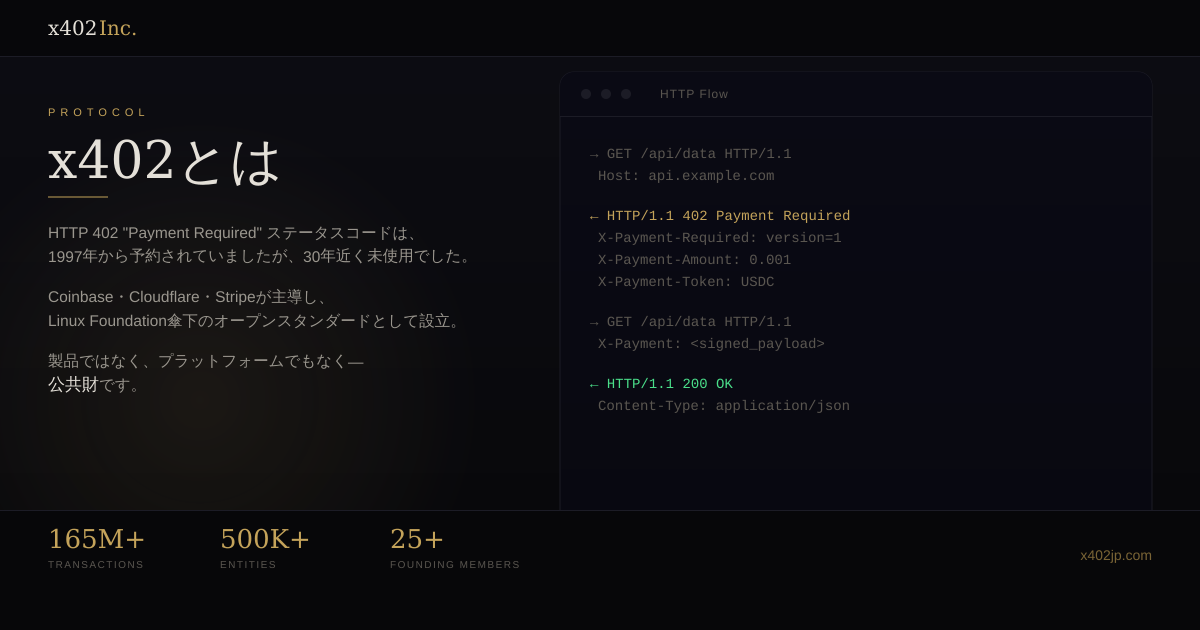
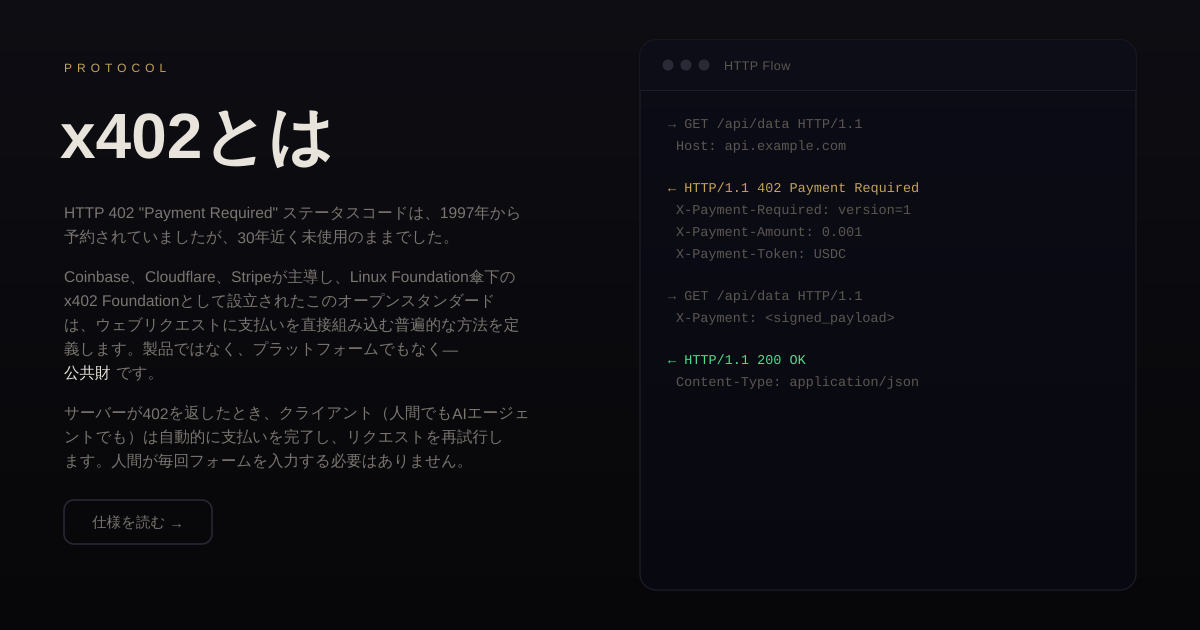
Update OGP PNG to match Protocol section screenshot, mobile 12px font
- scripts/generate-og.mjs: redesigned SVG matching x402とは screenshot
  (large bold title, body text left, HTTP Flow code block right)
- hero.ts: mobile uses MOBILE_FONT (12px/21px) prepared separately,
  single column with 16px margins — pretext still animates on mobile
- public/og-image.png: regenerated (85KB)

https://claude.ai/code/session_01McE1ci2mmXWg65ww2vFHRF

diff --git a/src/hero.ts b/src/hero.ts
@@ -17,6 +17,10 @@ import {
 const FONT_SIZE = 15
 const LINE_HEIGHT = Math.round(FONT_SIZE * 1.78) // ≈ 27px
 const FONT = `${FONT_SIZE}px/${LINE_HEIGHT}px "Noto Sans JP", sans-serif`
+
+const MOBILE_FONT_SIZE = 12
+const MOBILE_LINE_HEIGHT = Math.round(MOBILE_FONT_SIZE * 1.75) // ≈ 21px
+const MOBILE_FONT = `${MOBILE_FONT_SIZE}px/${MOBILE_LINE_HEIGHT}px "Noto Sans JP", sans-serif`
 const COL_PAD_H = 48   // horizontal outer padding
 const COL_GAP   = 44   // gap between columns
 const ORB_PAD   = 18   // clearance around orb radius
@@ -160,7 +164,8 @@ export function initHero(container: HTMLElement): () => void {
   let H = 0
   let textStartY = 0
   let isMobile   = false
-  let prepared: PreparedTextWithSegments | null = null
+  let prepared:       PreparedTextWithSegments | null = null
+  let preparedMobile: PreparedTextWithSegments | null = null
   let usedLines = 0
   let rafId     = 0
 
@@ -175,10 +180,9 @@ export function initHero(container: HTMLElement): () => void {
       ? headerEl.offsetTop + headerEl.offsetHeight + 16
       : Math.round(H * 0.38)
 
-    // Prepare text once (font must be loaded for accuracy)
-    if (!prepared) {
-      prepared = prepareWithSegments(BODY_TEXT, FONT)
-    }
+    // Prepare text once per font (font must be loaded for accuracy)
+    if (!prepared)       prepared       = prepareWithSegments(BODY_TEXT, FONT)
+    if (!preparedMobile) preparedMobile = prepareWithSegments(BODY_TEXT, MOBILE_FONT)
 
     // Spread orbs across the lower 2/3 of the hero
     const spread: [number, number, number, number][] = [
@@ -202,8 +206,10 @@ export function initHero(container: HTMLElement): () => void {
       return
     }
 
-    // On mobile: single column, orbs at reduced speed
+    // On mobile: single column, small font, orbs at reduced speed
     if (isMobile) {
+      if (!preparedMobile) { rafId = requestAnimationFrame(render); return }
+
       for (const orb of orbs) {
         orb.x += orb.vx * 0.4
         orb.y += orb.vy * 0.4
@@ -215,23 +221,24 @@ export function initHero(container: HTMLElement): () => void {
       for (let i = 0; i < usedLines; i++) pool[i]!.style.visibility = 'hidden'
       usedLines = 0
 
-      const colX = 20
-      const colW = W - 40
+      const colX = 16
+      const colW = W - 32
       const endY = H - 60
       let cursor: LayoutCursor = { segmentIndex: 0, graphemeIndex: 0 }
       let y = textStartY
 
-      while (y + LINE_HEIGHT <= endY && usedLines < MAX_POOL) {
-        const line = layoutNextLine(prepared, cursor, colW)
+      while (y + MOBILE_LINE_HEIGHT <= endY && usedLines < MAX_POOL) {
+        const line = layoutNextLine(preparedMobile, cursor, colW)
         if (!line) break
 
         const el = pool[usedLines++]!
+        el.style.font       = MOBILE_FONT
         el.style.left       = `${colX}px`
         el.style.top        = `${y}px`
         el.style.visibility = 'visible'
         el.textContent      = line.text
         cursor = line.end
-        y += LINE_HEIGHT
+        y += MOBILE_LINE_HEIGHT
       }
 
       rafId = requestAnimationFrame(render)
